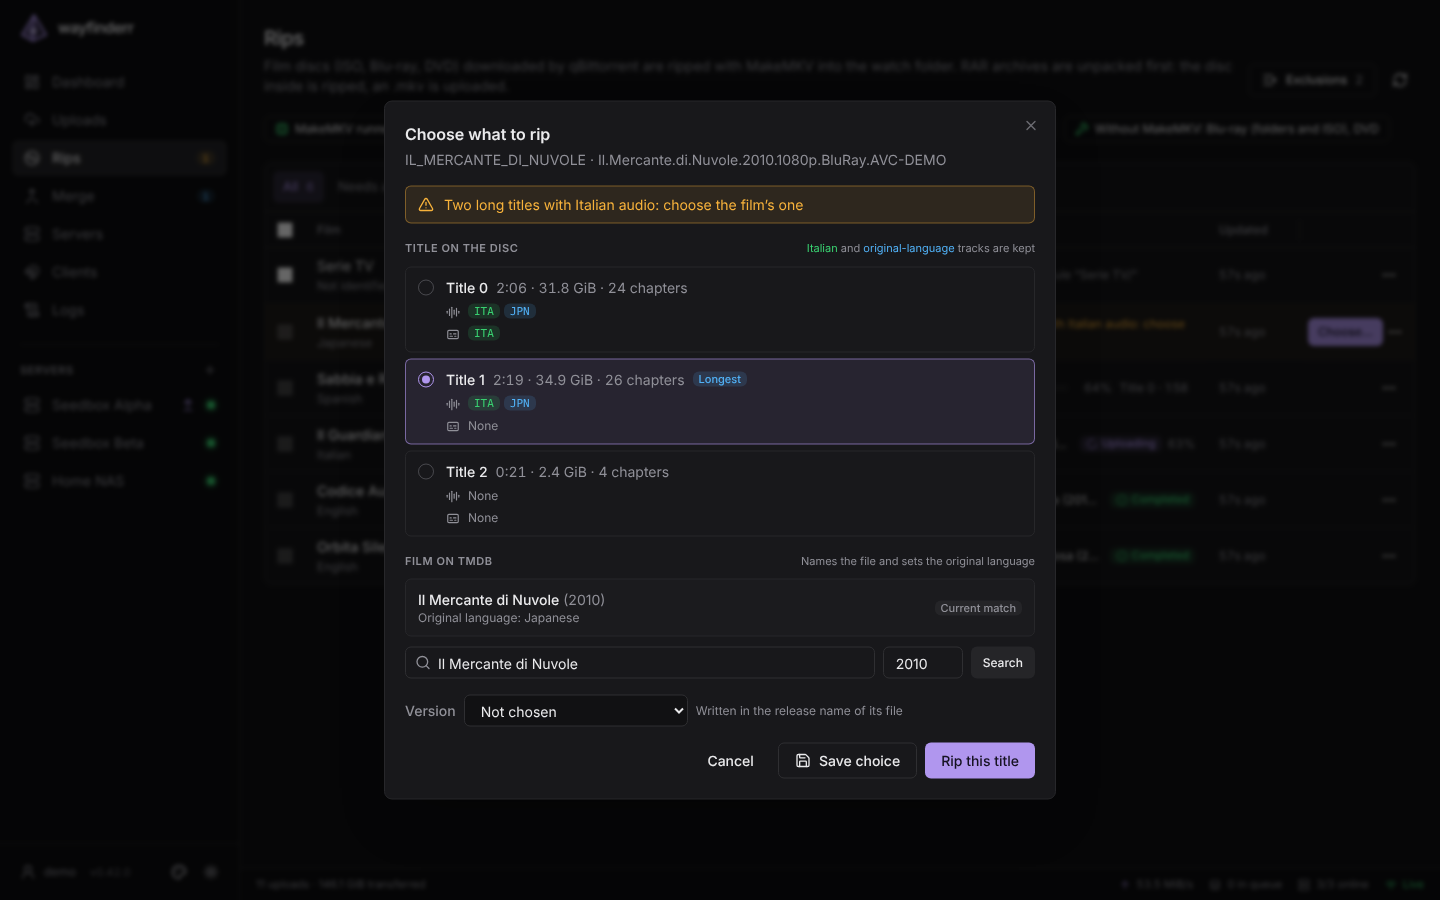
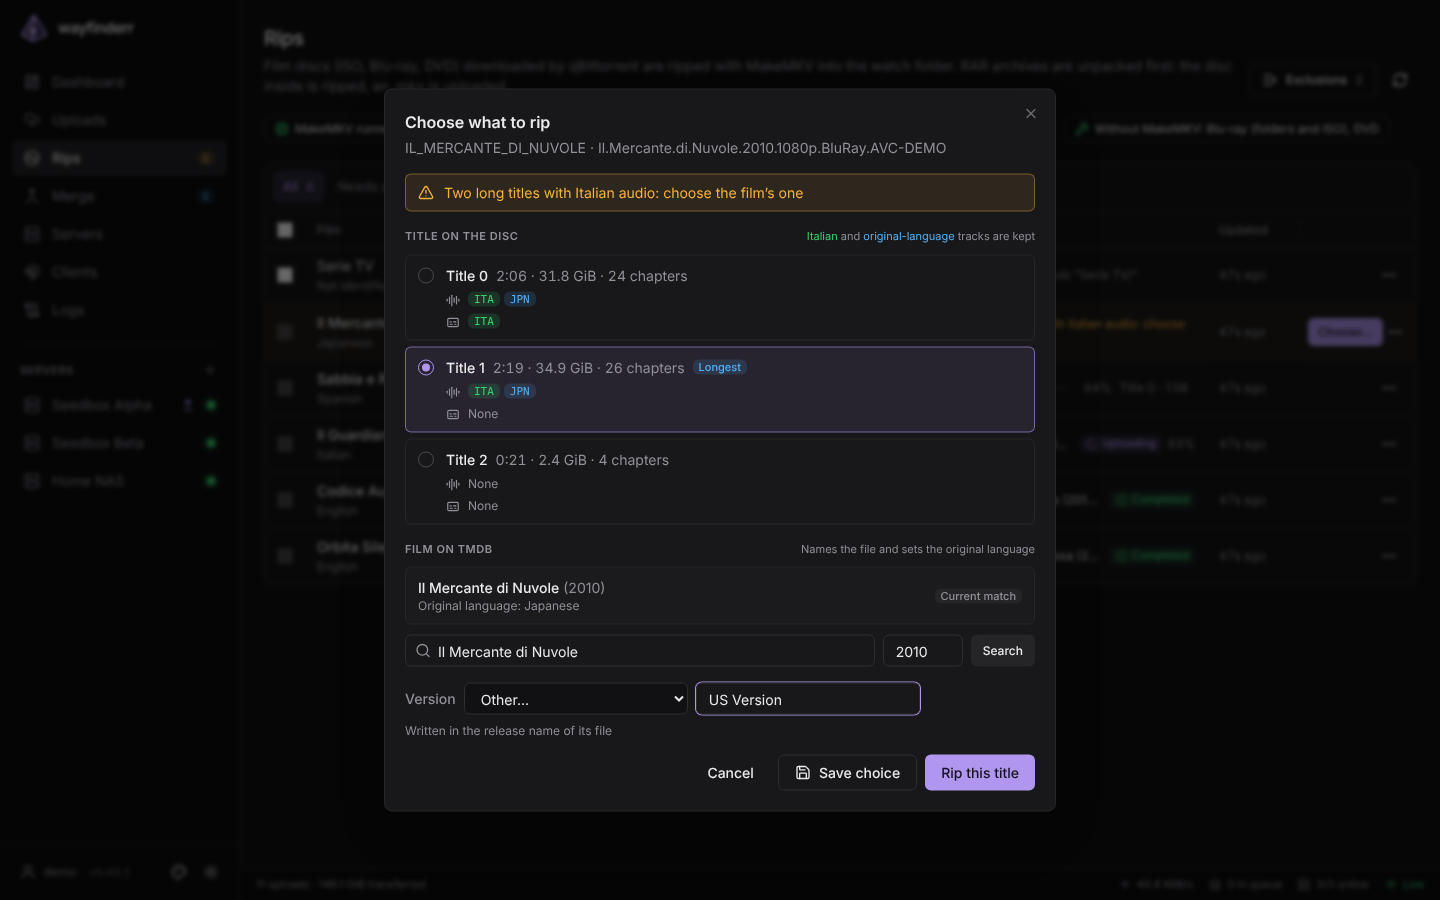
Choose… dialog: Other… for a version typed by hand (0.43.1)
The Version select of the rip's Choose… dialog only had the fixed list:
it now has Other… with a text field, like the other version choices, and
a version typed by hand opens there as Other… with its text.

Closes #110

Claude-Session: https://claude.ai/code/session_019CEh6GcmdmGdgozEEL4k4Y

diff --git a/frontend/components/rip-choose-dialog.tsx b/frontend/components/rip-choose-dialog.tsx
@@ -26,6 +26,11 @@ import { cn, errorMessage, formatBytes, formatRuntime } from '@/lib/utils';
 
 const CHOOSABLE = ['NEEDS_ATTENTION', 'FAILED', 'SKIPPED'];
 const UNSET_VERSION = '__unset';
+const OTHER_VERSION = '__other';
+
+/** The select's value for a version: one of the list, none, other (free text) or not chosen */
+const versionChoice = (v: string | null) =>
+  v === null ? UNSET_VERSION : v === '' || VERSIONS.includes(v) ? v : OTHER_VERSION;
 
 const filmOf = (rip: Rip): TmdbMovie | null =>
   rip.tmdbId
@@ -232,7 +237,8 @@ export function RipChooseDialog({
   const [titleIndex, setTitleIndex] = useState<number | null>(null);
   const [film, setFilm] = useState<TmdbMovie | null>(null);
   const [secondLanguage, setSecondLanguage] = useState<string | null>(null);
-  const [version, setVersion] = useState<string | null>(null);
+  const [versionPick, setVersionPick] = useState(UNSET_VERSION);
+  const [customVersion, setCustomVersion] = useState('');
   const [query, setQuery] = useState('');
   const [year, setYear] = useState('');
   const [results, setResults] = useState<TmdbMovie[] | null>(null);
@@ -278,7 +284,8 @@ export function RipChooseDialog({
     setTitleIndex(rip.titleIndex ?? longest?.index ?? null);
     setFilm(filmOf(rip));
     setSecondLanguage(rip.secondLanguage);
-    setVersion(rip.version);
+    setVersionPick(versionChoice(rip.version));
+    setCustomVersion(rip.version !== null && versionChoice(rip.version) === OTHER_VERSION ? rip.version : '');
     setQuery(q);
     setYear(y);
     setResults(null);
@@ -303,15 +310,19 @@ export function RipChooseDialog({
   const second = others.some((o) => o.lang === secondLanguage) ? secondLanguage : null;
   const original = [...languageCodes(originalLanguage), ...(second ? [second] : [])];
 
+  const version =
+    versionPick === UNSET_VERSION ? null : versionPick === OTHER_VERSION ? customVersion.trim() : versionPick;
+  // Other… needs its text
+  const versionMissing = versionPick === OTHER_VERSION && !customVersion.trim();
   const payload: { titleIndex?: number; tmdbId?: number; secondLanguage?: string | null } = {};
   if (titles && titleIndex !== null && titleIndex !== rip.titleIndex) payload.titleIndex = titleIndex;
   if (film && film.id !== rip.tmdbId) payload.tmdbId = film.id;
   if (titles && second !== rip.secondLanguage) payload.secondLanguage = second;
   // A scanned disc needs a title; an unscanned one can only get its film
-  const canSubmit = allowed && !saving && (titles ? titleIndex !== null : payload.tmdbId !== undefined);
+  const canSubmit = allowed && !saving && !versionMissing && (titles ? titleIndex !== null : payload.tmdbId !== undefined);
   // Save without ripping: anything changed (the film above all, to rip it later)
   const versionChanged = version !== rip.version;
-  const canSave = allowed && !saving && (Object.keys(payload).length > 0 || versionChanged);
+  const canSave = allowed && !saving && !versionMissing && (Object.keys(payload).length > 0 || versionChanged);
 
   const submit = async (queue: boolean) => {
     setSaving(queue ? 'queue' : 'save');
@@ -565,19 +576,30 @@ export function RipChooseDialog({
             <Select
               id="rip-version"
               className="h-8 w-56"
-              value={version === null ? UNSET_VERSION : version}
-              onChange={(e) => setVersion(e.target.value === UNSET_VERSION ? null : e.target.value)}
+              value={versionPick}
+              onChange={(e) => setVersionPick(e.target.value)}
             >
               <option value={UNSET_VERSION}>Not chosen</option>
               <option value="">None (standard version)</option>
-              {[...VERSIONS, ...(version && !VERSIONS.includes(version) ? [version] : [])].map((v) => (
+              {VERSIONS.map((v) => (
                 <option key={v} value={v}>
                   {v}
                 </option>
               ))}
+              <option value={OTHER_VERSION}>Other…</option>
             </Select>
+            {versionPick === OTHER_VERSION && (
+              <Input
+                aria-label="Version"
+                className="h-8 w-56"
+                value={customVersion}
+                onChange={(e) => setCustomVersion(e.target.value.slice(0, 60))}
+                placeholder="e.g. US Version"
+                autoFocus
+              />
+            )}
             <span className="text-xs text-muted-foreground">
-              {rip.suggestion?.version && version === null
+              {rip.suggestion?.version && versionPick === UNSET_VERSION
                 ? `The name says ${rip.suggestion.version}`
                 : 'Written in the release name of its file'}
             </span>

diff --git a/scripts/screenshots/seed.ts b/scripts/screenshots/seed.ts
@@ -373,6 +373,8 @@ async function main() {
     status: 'NEEDS_ATTENTION',
     titles: titles(mercante),
     reason: 'Two long titles with Italian audio: choose the film’s one',
+    // A version typed by hand (Other…)
+    version: 'US Version',
   });
   await prisma.rip.create({
     data: {

diff --git a/docs/CHANGELOG.md b/docs/CHANGELOG.md
@@ -4,6 +4,9 @@ All notable changes to this project will be documented in this file.
 
 ## [Unreleased]
 
+### Fixed
+- The *Version* of the rip's *Choose…* dialog takes any text too (issue #110): **Other…** with a field, as in the other version choices; a version typed by hand opens there as *Other…* with its text
+
 ### Added
 - The version of the release (*Extended*, *Director's Cut*…) chosen beforehand (issue #108): **Version…** in the menu of a rip (and *Version* in its *Choose…* dialog) and of an upload, *Change…* on its **Tracker** card; bookrr sends the film's version with the source .torrent and with the merge plan. The rename dialog opens with it and says where it comes from; the upload list shows it as a badge. When the rip, bookrr and the merge plan disagree, the upload shows **Version to choose** and the dialog selects none and cannot rename until one is picked; the one picked (or any version confirmed by a rename) stays on the file. A rip, a source .torrent or a plan changing its version later is followed by its file. The edition in a name (`Extended`, `Director's Cut`, `Unrated`, `IMAX`, `Theatrical`…) is offered in the dialog, never chosen on its own. A **Theatrical** version is asked every time: write `THEATRICAL` in the name, or leave it without a version. `version` on uploads, rips, source torrents and merge plans, `releaseVersion` on uploads, `PUT /api/uploads/:id/version`, `PUT /api/rips/:id/version`, `version` in `POST /api/source-torrents` and `POST /api/merge/plans`, `version`/`suggestedVersion` in the rename proposal, `theatrical` in the preview and the rename
 - SSH host keys of the servers and of the local release machines (issue #102): the first key a server shows is kept (its `SHA256:…` fingerprint) and checked at every other connection, uploads, space, Ultra-API restart, release and local release alike. A server answering with another key gets neither the password nor any file or command: the connection fails with `SSH host key of … changed: expected …, got …`, in the log, the upload's error and the Test toast. **Host key** under the SSH login of the server and client dialogs shows the key kept, with **Forget** for a reinstalled machine (the next connection keeps the new key); changing the host or the port forgets it too. Servers and clients already set up keep their key at their next connection, with nothing to do. `sshHostKey` (read only) on servers and clients, `DELETE /api/servers/:id/ssh-host-key`, `DELETE /api/clients/:id/ssh-host-key`

diff --git a/docs/USAGE.md b/docs/USAGE.md
@@ -201,7 +201,7 @@ The release name has the film's version after the year (`NAME.YEAR.EXTENDED…`)
 - on the file: **Version…** in the upload's menu, or *Change…* on its **Tracker** card;
 - from [bookrr](#source-torrent-files-from-bookrr): the version chosen on the film in its release plan comes with the source .torrent and with the merge plan.
 
-Each choice offers the usual versions, *None (standard version)* and *Other…* for any text. The upload list shows the version that will be used as a badge, with where it comes from in its tooltip.
+Each choice (the rip's menu and *Choose…* dialog, the upload, the rename dialog) offers the usual versions, *None (standard version)* and *Other…* for any text up to 60 characters: `US Version` gives `….1997.US.VERSION.…`. The upload list shows the version that will be used as a badge, with where it comes from in its tooltip.
 
 When those places do not agree (the rip says *Extended*, bookrr says *Theatrical*), none of them wins: the upload shows **Version to choose**, and the rename dialog opens with no version selected, says what each one says, and cannot rename until you pick one. The one you pick stays on the file. Changing the version of a rip, or bookrr sending another one, later is followed by its file (unless the file is already renamed: the new version is for the next rename).
 
